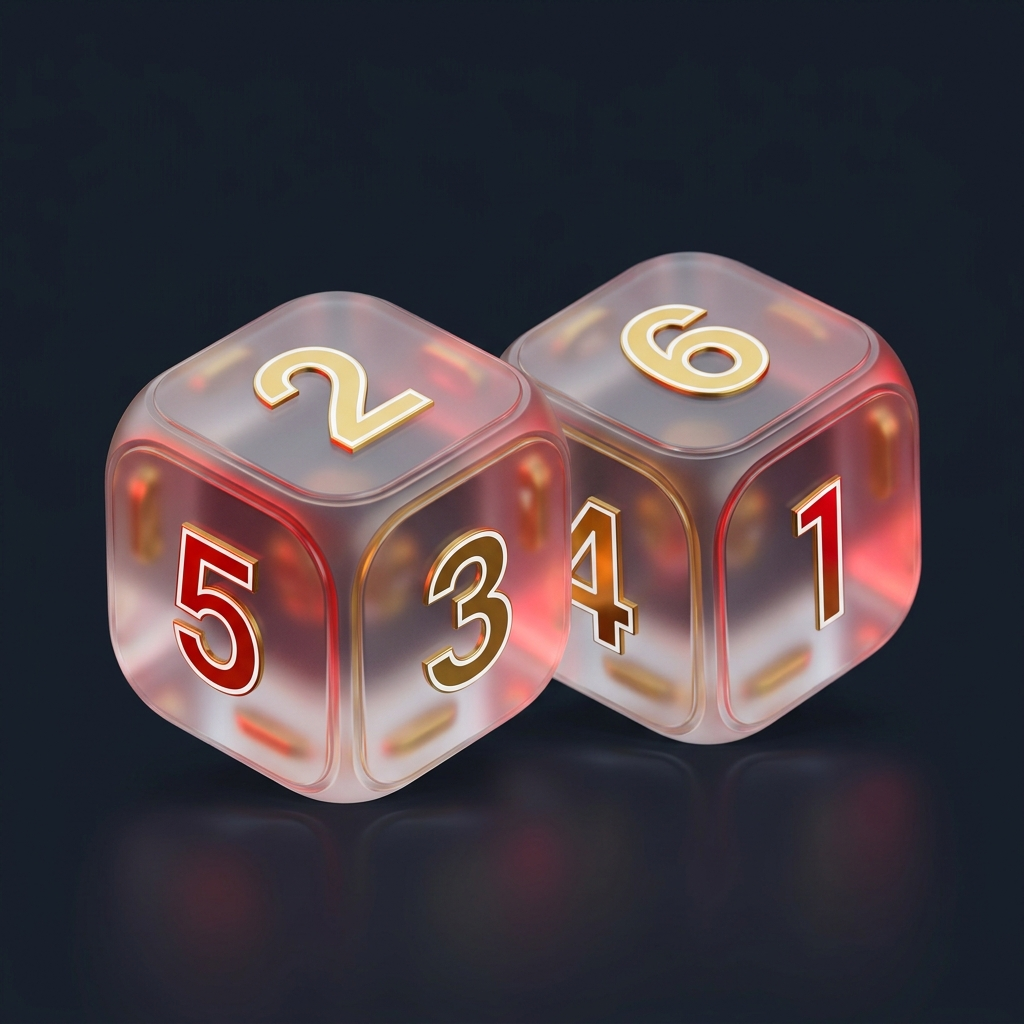
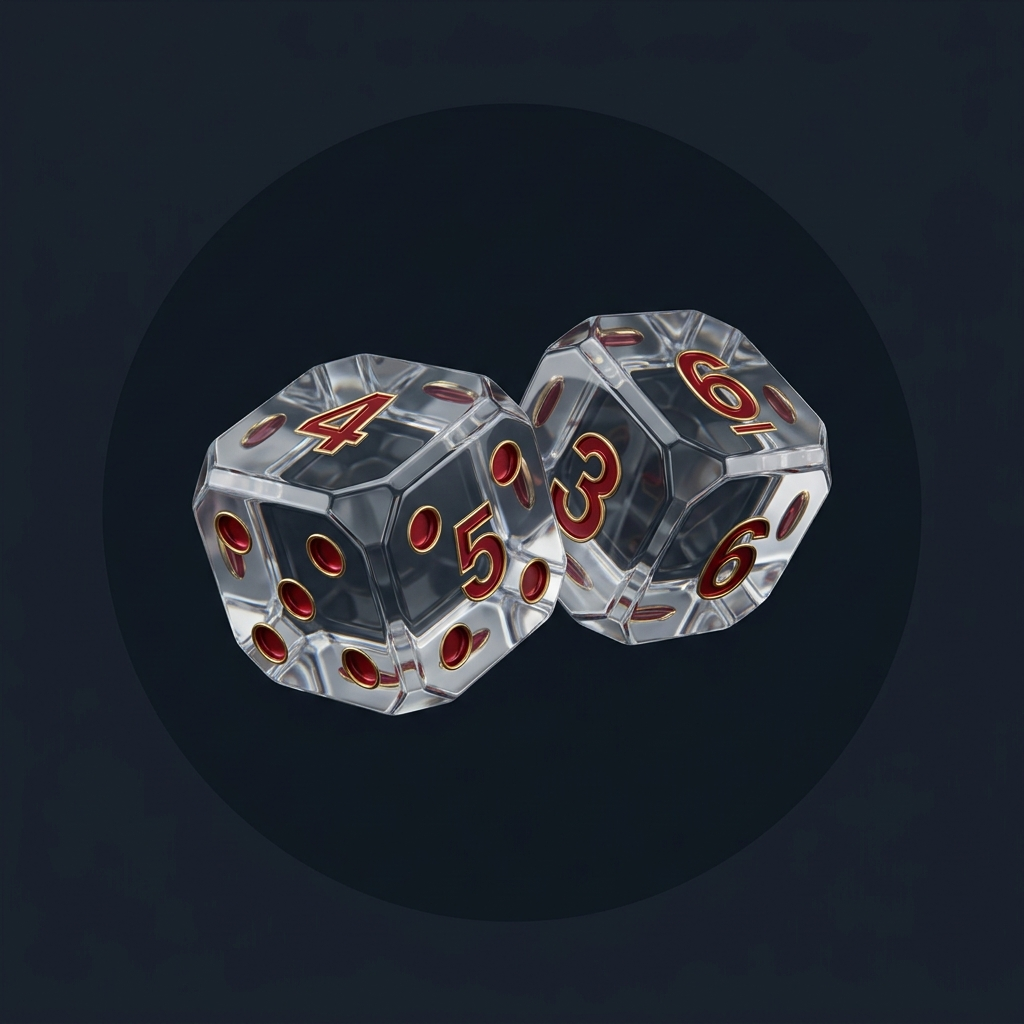
fix: correct sequential sorting logic in page.js for frequency charts

diff --git a/dashboard/src/app/components/FullFrequencyChart.js b/dashboard/src/app/components/FullFrequencyChart.js
@@ -1,5 +1,5 @@
 import { useState, useEffect } from 'react';
-import { BarChart, Bar, XAxis, YAxis, CartesianGrid, Tooltip, ResponsiveContainer, Cell } from 'recharts';
+import { BarChart, Bar, XAxis, YAxis, CartesianGrid, Tooltip, ResponsiveContainer, Cell, LabelList } from 'recharts';
 import { Activity, Maximize2, X } from 'lucide-react';
 import { TOOLTIP_STYLE } from '../lib/constants';
 
@@ -11,41 +11,76 @@ export default function FullFrequencyChart({ data }) {
     const sortedVals = [...data.sequential].map(d => d.frequency).sort((a, b) => b - a);
     const threshold = sortedVals[4] || 0; 
 
-    const ChartComponent = ({ height = '100%', isModal = false }) => (
-        <ResponsiveContainer width="100%" height={height}>
-            <BarChart 
-                data={data.sequential} 
-                margin={{ top: 10, right: 10, left: -20, bottom: 20 }}
-            >
-                <CartesianGrid strokeDasharray="3 3" stroke="#333" vertical={false} />
-                <XAxis 
-                    dataKey="name" 
-                    stroke="#888" 
-                    tickLine={false} 
-                    axisLine={false} 
-                    interval={0} 
-                    tick={{ fontSize: isModal ? 12 : 10 }}
-                    height={30}
-                />
-                <YAxis stroke="#888" tickLine={false} axisLine={false} />
-                <Tooltip
-                    cursor={{ fill: 'rgba(255,255,255,0.05)' }}
-                    {...TOOLTIP_STYLE}
-                    itemStyle={{ color: '#f97316' }}
-                />
-                <Bar 
-                    dataKey="frequency" 
-                    name="Số lần" 
-                    radius={[4, 4, 0, 0]}
-                    isAnimationActive={false} // Disable animation to prevent "jumping" effect on load/tab switch
+    const ChartComponent = ({ height = '100%', isModal = false }) => {
+        const isVertical = isModal;
+
+        return (
+            <ResponsiveContainer width="100%" height={height}>
+                <BarChart 
+                    layout={isVertical ? "vertical" : "horizontal"}
+                    data={data.sequential} 
+                    margin={isVertical 
+                        ? { top: 10, right: 40, left: 0, bottom: 10 } 
+                        : { top: 10, right: 10, left: -20, bottom: 20 }
+                    }
                 >
-                    {data.sequential.map((entry, index) => (
-                        <Cell key={`cell-${index}`} fill={entry.frequency >= threshold ? '#ea580c' : '#334155'} />
-                    ))}
-                </Bar>
-            </BarChart>
-        </ResponsiveContainer>
-    );
+                    <CartesianGrid strokeDasharray="3 3" stroke="#333" vertical={!isVertical} horizontal={isVertical} />
+                    {isVertical ? (
+                        <>
+                            <XAxis type="number" stroke="#888" tickLine={false} axisLine={false} hide />
+                            <YAxis 
+                                dataKey="name" 
+                                type="category" 
+                                stroke="#ccc" 
+                                tickLine={false} 
+                                axisLine={false} 
+                                width={35}
+                                tick={{ fontSize: 13, fontWeight: 'bold' }}
+                            />
+                        </>
+                    ) : (
+                        <>
+                            <XAxis 
+                                dataKey="name" 
+                                stroke="#888" 
+                                tickLine={false} 
+                                axisLine={false} 
+                                interval={0} 
+                                tick={{ fontSize: 10 }}
+                                height={30}
+                            />
+                            <YAxis stroke="#888" tickLine={false} axisLine={false} />
+                        </>
+                    )}
+                    <Tooltip
+                        cursor={{ fill: 'rgba(255,255,255,0.05)' }}
+                        {...TOOLTIP_STYLE}
+                        itemStyle={{ color: '#f97316' }}
+                    />
+                    <Bar 
+                        dataKey="frequency" 
+                        name="Số lần" 
+                        radius={isVertical ? [0, 4, 4, 0] : [4, 4, 0, 0]}
+                        isAnimationActive={false}
+                    >
+                        {data.sequential.map((entry, index) => (
+                            <Cell key={`cell-${index}`} fill={entry.frequency >= threshold ? '#ea580c' : '#334155'} />
+                        ))}
+                        {isVertical && (
+                            <LabelList 
+                                dataKey="frequency" 
+                                position="right" 
+                                fill="#94a3b8" 
+                                fontSize={12} 
+                                offset={10}
+                                fontWeight="bold"
+                            />
+                        )}
+                    </Bar>
+                </BarChart>
+            </ResponsiveContainer>
+        );
+    };
 
     return (
         <div className="bg-gray-900/40 rounded-3xl p-4 md:p-6 border border-gray-800 shadow-xl flex flex-col mt-8">
@@ -86,37 +121,37 @@ export default function FullFrequencyChart({ data }) {
                 <span className="text-[10px] text-gray-500 uppercase font-bold tracking-widest">Tần suất cao nhất (Top 5)</span>
             </div>
 
-            {/* Fullscreen Modal with Landscape Rotation Feature */}
+            {/* Fullscreen Modal - Native Vertical Layout for Mobile */}
             {isModalOpen && (
-                <div className="fixed inset-0 z-[9999] bg-[#0E1217] flex flex-col animate-in fade-in duration-300">
-                    {/* Rotate container for mobile portrait */}
-                    <div className="flex-1 flex flex-col p-4 md:p-8 md:rotate-0 h-full w-full max-sm:portrait:rotate-90 max-sm:portrait:w-[100vh] max-sm:portrait:h-[100vw] max-sm:portrait:fixed max-sm:portrait:top-1/2 max-sm:portrait:left-1/2 max-sm:portrait:-translate-x-1/2 max-sm:portrait:-translate-y-1/2 max-sm:portrait:origin-center bg-[#0E1217]">
-                        
-                        <div className="flex items-center justify-between mb-6 md:mb-8">
-                            <div className="flex items-center gap-3">
-                                <Activity className="w-6 h-6 text-orange-500" />
-                                <div>
-                                    <h2 className="text-lg md:text-2xl font-bold text-white">Toàn bộ Tần suất Số</h2>
-                                    <p className="text-gray-400 text-xs md:text-sm">Xem chi tiết các số từ 01 đến {data.sequential.length}</p>
-                                </div>
+                <div className="fixed inset-0 z-[9999] bg-[#0E1217] flex flex-col animate-in fade-in zoom-in-95 duration-200">
+                    <div className="flex items-center justify-between p-4 md:p-8 border-b border-gray-800/50 bg-[#0E1217]/80 backdrop-blur-md sticky top-0 z-10">
+                        <div className="flex items-center gap-3">
+                            <Activity className="w-6 h-6 text-orange-500" />
+                            <div>
+                                <h2 className="text-lg md:text-2xl font-bold text-white">Toàn bộ Tần suất Số</h2>
+                                <p className="text-gray-400 text-xs md:text-sm">Danh sách tần suất từ 01 đến {data.sequential.length}</p>
                             </div>
-                            <button 
-                                onClick={() => setIsModalOpen(false)}
-                                className="p-2 md:p-3 bg-gray-800 hover:bg-red-900/40 text-gray-300 hover:text-red-400 rounded-2xl transition-all border border-gray-700"
-                            >
-                                <X className="w-6 h-6" />
-                            </button>
                         </div>
+                        <button 
+                            onClick={() => setIsModalOpen(false)}
+                            className="p-2 md:p-3 bg-gray-800 hover:bg-red-900/40 text-gray-300 hover:text-red-400 rounded-2xl transition-all border border-gray-700"
+                        >
+                            <X className="w-6 h-6" />
+                        </button>
+                    </div>
 
-                        <div className="flex-1 overflow-x-auto overflow-y-hidden pb-8 scrollbar-thin scrollbar-thumb-gray-700 scrollbar-track-gray-900/20 px-2">
-                            <div className="h-full" style={{ minWidth: Math.max(1000, data.sequential.length * (isModalOpen ? 30 : 28)) + 'px' }}>
-                                <ChartComponent height="100%" isModal={true} />
-                            </div>
+                    <div className="flex-1 overflow-y-auto overflow-x-hidden p-2 md:p-8 custom-scrollbar">
+                        {/* 
+                            On mobile, we use a vertical chart that stretches vertically. 
+                            This is much more stable than CSS rotation and handles all touch gestures perfectly.
+                        */}
+                        <div style={{ height: Math.max(800, data.sequential.length * 35) + 'px' }} className="w-full max-w-4xl mx-auto">
+                            <ChartComponent height="100%" isModal={true} />
                         </div>
-                        
-                        <div className="mt-4 text-center text-gray-500 text-[10px] md:text-sm font-medium">
-                             &larr; Vuốt sang ngang để xem thêm &rarr; {isModalOpen && <span className="hidden max-sm:portrait:inline ml-2">(Chế độ màn hình ngang tối ưu)</span>}
-                        </div>
+                    </div>
+                    
+                    <div className="p-4 bg-gray-900/20 text-center text-gray-500 text-xs font-medium border-t border-gray-800/50">
+                         &uarr; Vuốt lên/xuống để xem toàn bộ danh sách &darr;
                     </div>
                 </div>
             )}

diff --git a/dashboard/src/app/layout.js b/dashboard/src/app/layout.js
@@ -15,9 +15,16 @@ const geistMono = Geist_Mono({
 export const metadata = {
   title: "Vietlott Dashboard - Phân Tích & Dự Đoán Xổ Số",
   description: "Trang tổng hợp thống kê, dự đoán và phân tích tần suất xổ số Vietlott (Mega 6/45, Power 6/55) tự động cập nhật mỗi ngày. Cung cấp bộ số đẹp, soi cầu nhanh chuẩn xác.",
+  manifest: "/manifest.json",
   keywords: ["Vietlott", "Mega 6/45", "Power 6/55", "Xổ số", "Dự đoán Vietlott", "Thống kê Vietlott", "KQXS Vietlott", "Vietlott Dashboard", "Phân tích xổ số"],
   authors: [{ name: "Vietlott Dashboard" }],
   creator: "Vietlott Dashboard",
+  themeColor: "#0E1217", // Ensure splash screen and address bar match the theme
+  appleWebApp: {
+    capable: true,
+    statusBarStyle: "black-translucent",
+    title: "Vietlott Dashboard",
+  },
   openGraph: {
     title: "Vietlott Dashboard - Phân Tích & Dự Đoán Xổ Số",
     description: "Công cụ thống kê, dự đoán và phân tích tần suất xổ số Vietlott trực quan. Giao diện nhanh, đẹp, dữ liệu cập nhật liên tục.",
@@ -41,9 +48,9 @@ export const metadata = {
     images: ["/og-image.png"],
   },
   icons: {
-    icon: "/og-image.png",
-    shortcut: "/og-image.png",
-    apple: "/og-image.png",
+    icon: "/icon.png",
+    shortcut: "/icon.png",
+    apple: "/apple-icon.png",
   },
 };
 

diff --git a/dashboard/src/app/page.js b/dashboard/src/app/page.js
@@ -46,7 +46,7 @@ export default function Dashboard() {
       if (activeTab === 'Power655' && row['Số Đặc Biệt']) counts[row['Số Đặc Biệt']] = (counts[row['Số Đặc Biệt']] || 0) + 1;
     });
     const formatted = Object.keys(counts).map(key => ({ name: key, frequency: counts[key] })).sort((a, b) => b.frequency - a.frequency);
-    const sequential = Object.keys(counts).map(key => ({ name: key, frequency: counts[key] })).sort((a, b) => parseInt(a) - parseInt(b));
+    const sequential = Object.keys(counts).map(key => ({ name: key, frequency: counts[key] })).sort((a, b) => parseInt(a.name) - parseInt(b.name));
     return { top15: formatted.slice(0, 15), full: formatted, sequential };
   }, [data, activeTab]);
 

diff --git a/dashboard/src/app/manifest.js b/dashboard/src/app/manifest.js
@@ -1,0 +1,25 @@
+export default function manifest() {
+  return {
+    name: 'Vietlott Dashboard',
+    short_name: 'Vietlott',
+    description: 'Thống kê & Dự đoán xổ số Vietlott chuyên nghiệp',
+    start_url: '/',
+    display: 'standalone',
+    background_color: '#0E1217',
+    theme_color: '#0E1217',
+    icons: [
+      {
+        src: '/icon-512.png',
+        sizes: '512x512',
+        type: 'image/png',
+        purpose: 'maskable',
+      },
+      {
+        src: '/icon-512.png',
+        sizes: '512x512',
+        type: 'image/png',
+        purpose: 'any',
+      },
+    ],
+  }
+}
